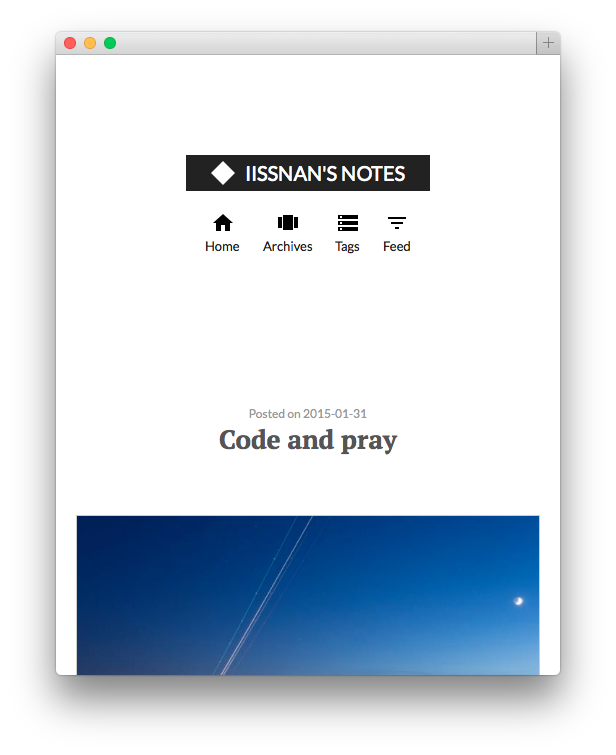
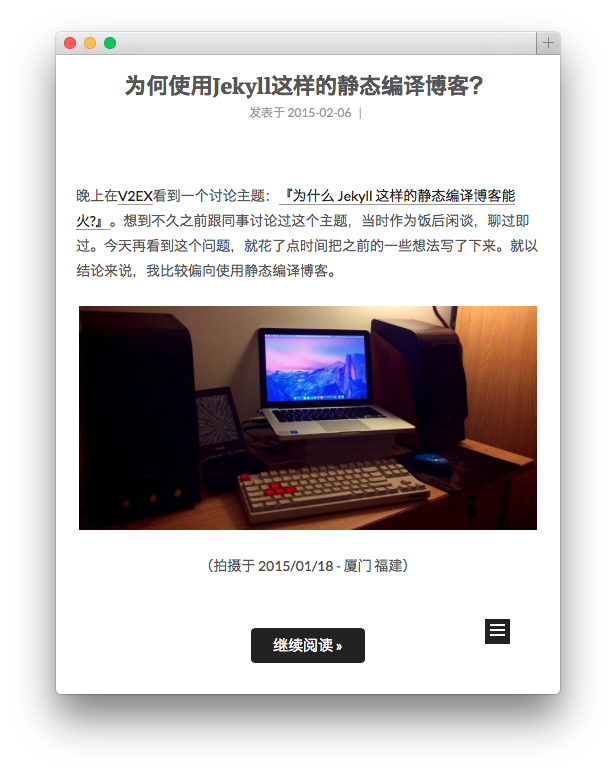
Update screenshots

diff --git a/README.md b/README.md
@@ -8,8 +8,19 @@
 
 ## 预览
 
-[桌面设备预览](screenshots/desktop.png)
+* 大屏幕显示效果
 
+![Desktop Preview](screenshots/desktop-preview.png)
+
+* 侧边栏
+
+![Desktop Sidebar Preview](screenshots/desktop-sidebar-preview.png)
+
+* 侧边栏（文章页面）
+
+![Desktop Sidebar Preview](screenshots/desktop-sidebar-toc.png)
+
+* 小屏幕
 
 ![Mobile Preview](screenshots/mobile.png)
 
